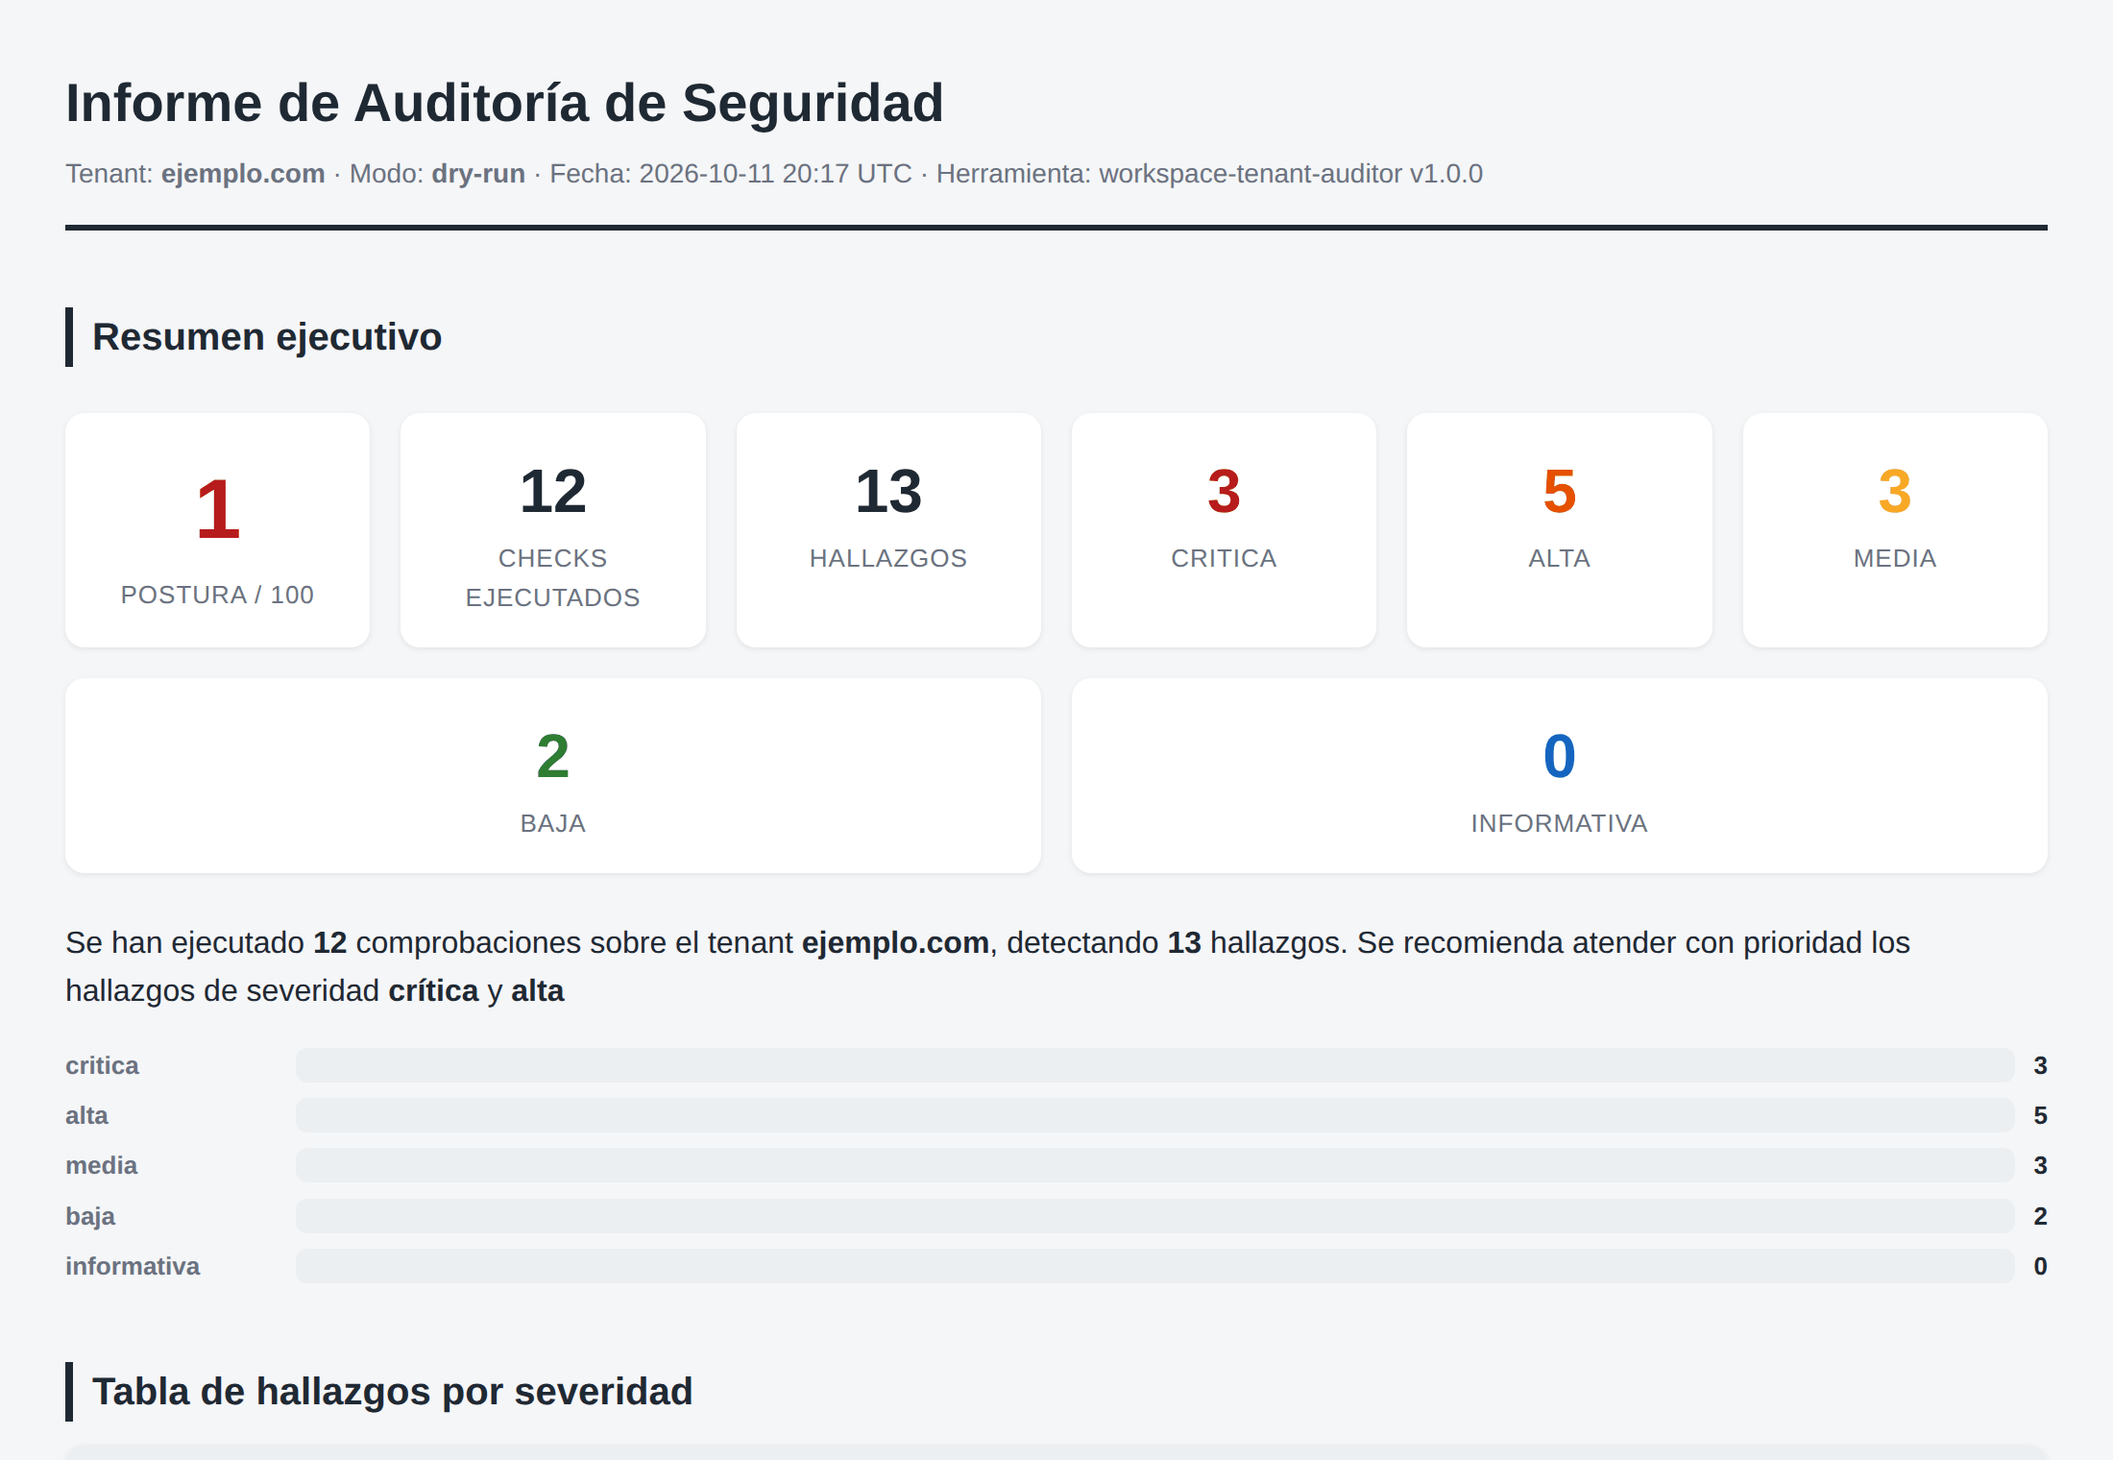
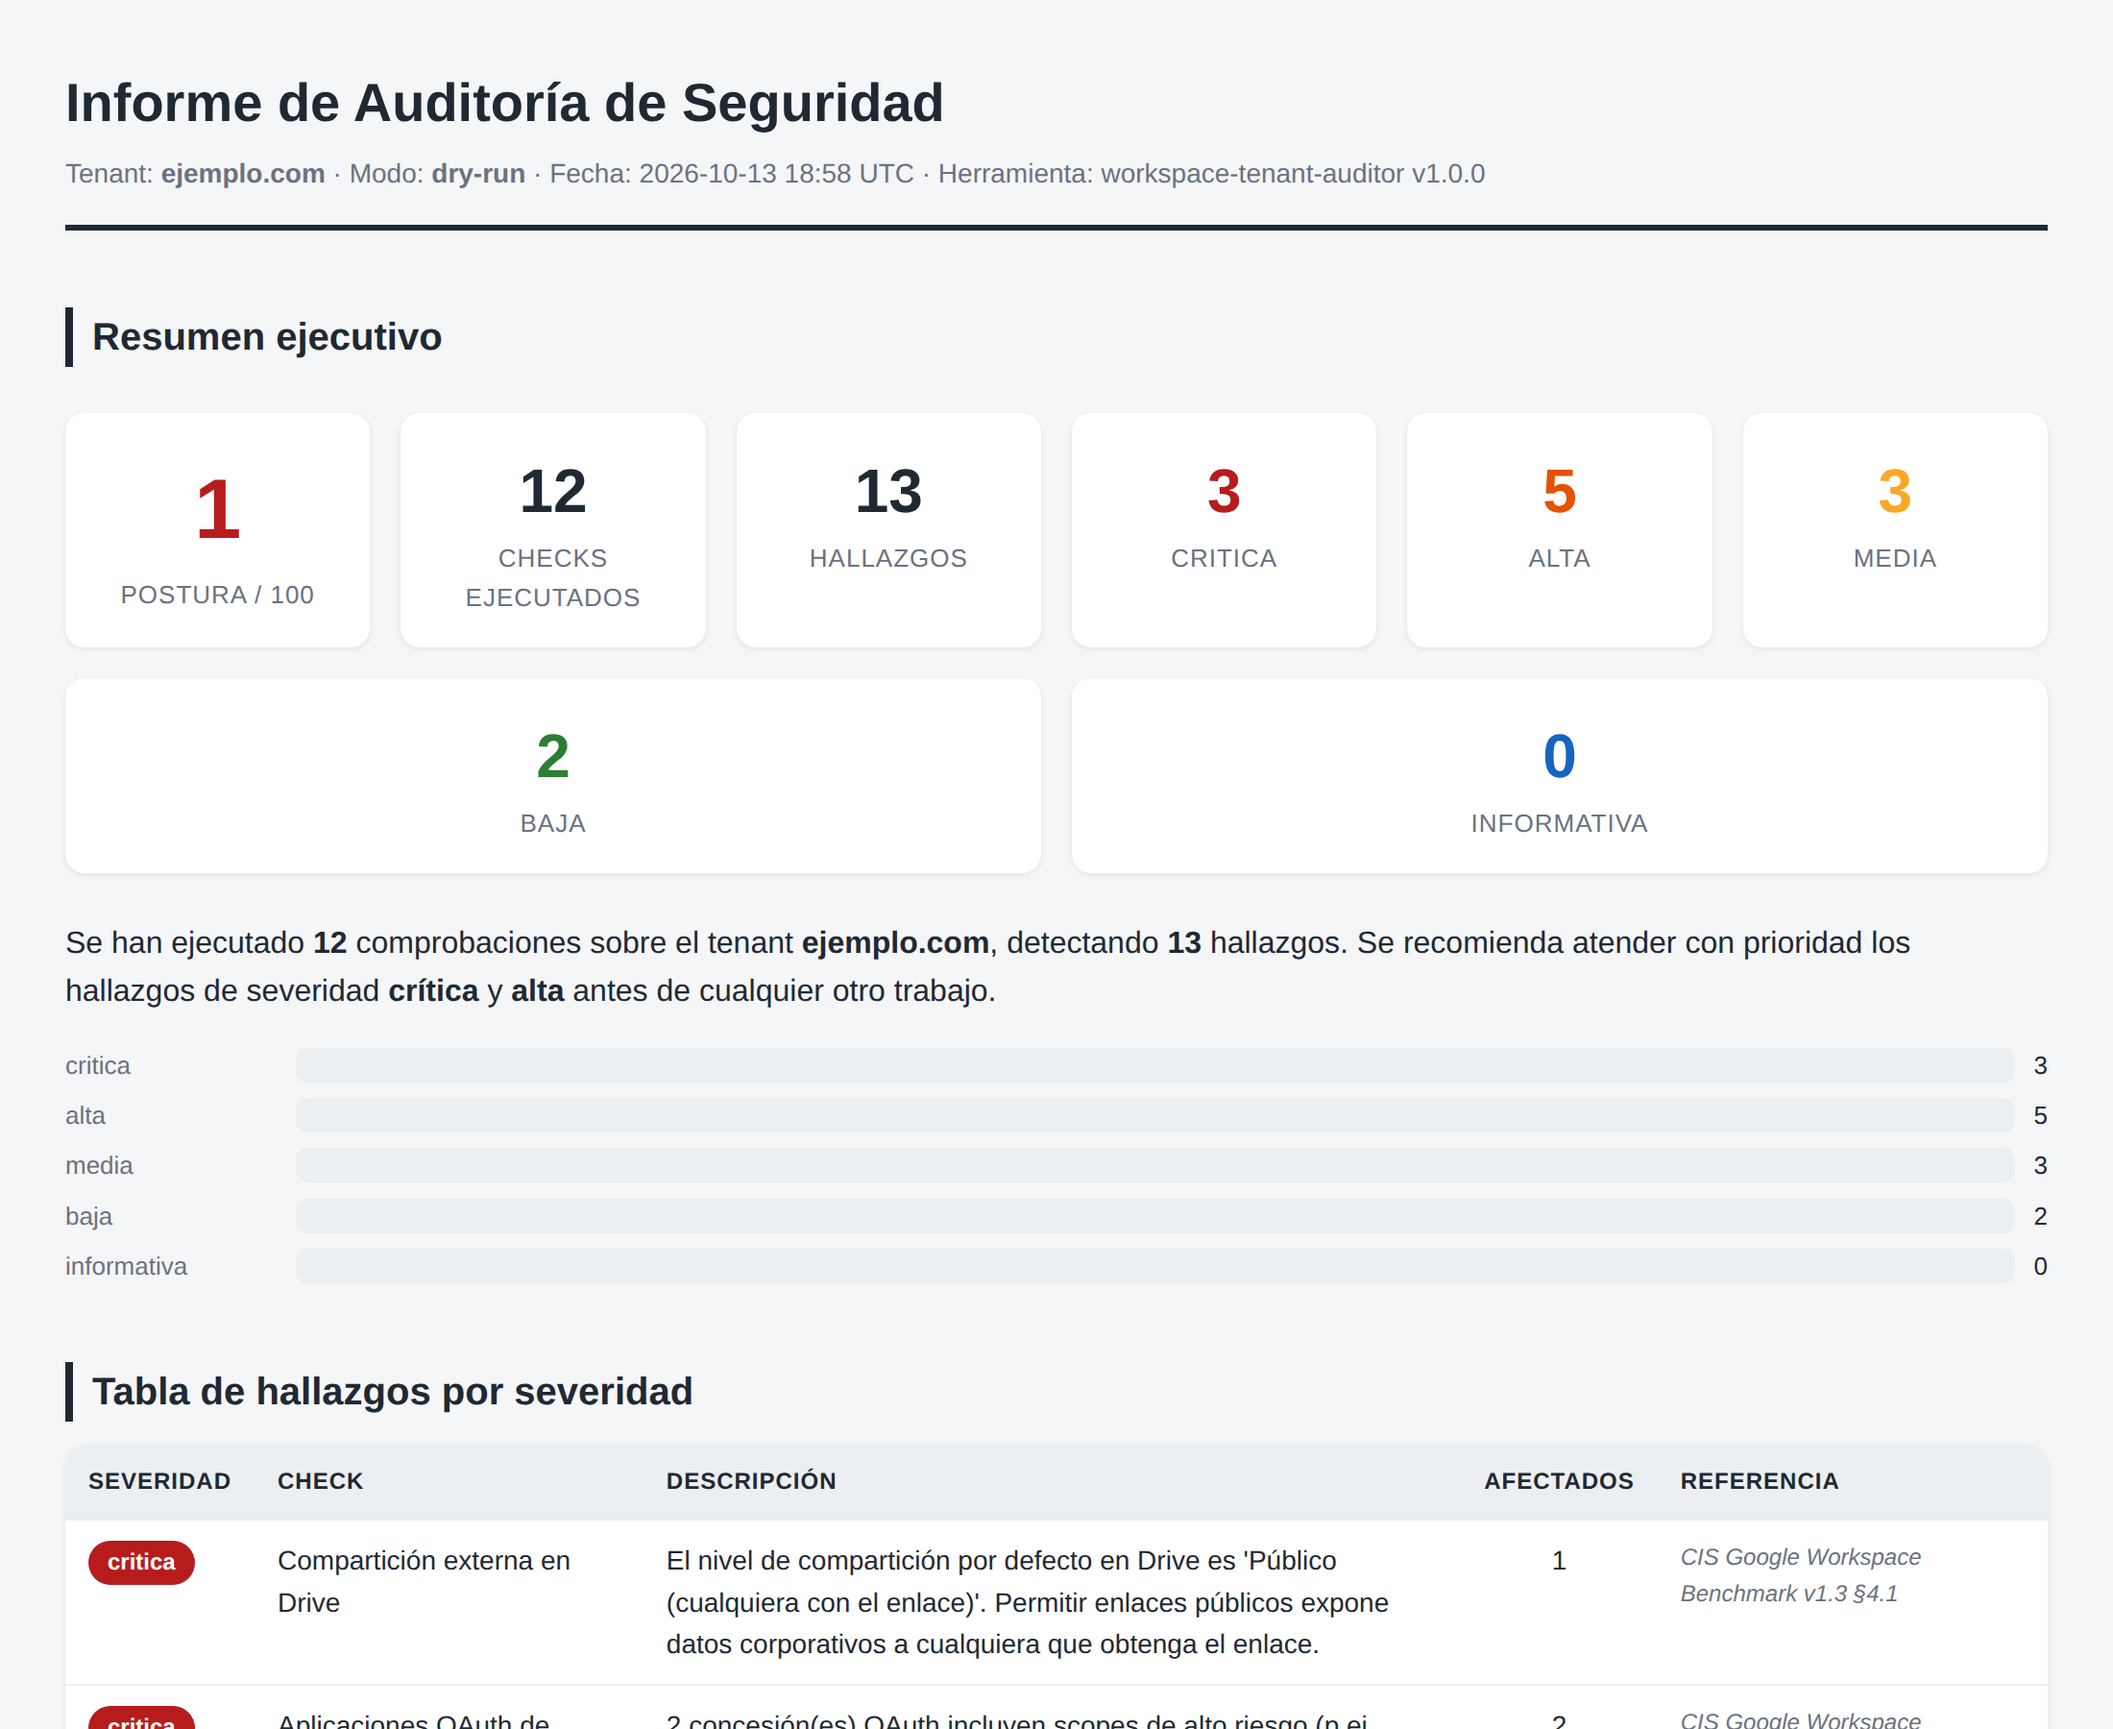
docs: alinear documentación con fixes de paginación, collector y template
- README: roadmap actualizado (tokens OAuth ya implementados vía Admin SDK)
  y enlace al nuevo CHANGELOG.md
- ARCHITECTURE: diagrama corregido (tokens OAuth desde Directory API) y
  sección de recopilación con response_key, aliases y tokens().list()
- SECURITY: nota de alcance de directory.tokens().list() (concesiones
  activas, no catálogo completo de apps)
- CHANGELOG.md: traza de los fixes del commit 9ca98d4
- docs/img: capturas regeneradas con el template HTML corregido

diff --git a/CHANGELOG.md b/CHANGELOG.md
@@ -1,0 +1,42 @@
+# Changelog
+
+Todas las modificaciones relevantes de este proyecto se documentan en este
+archivo. El formato está basado en [Keep a Changelog](https://keepachangelog.com/es/1.1.0/)
+y el proyecto sigue [Versionado Semántico](https://semver.org/lang/es/).
+
+## [No publicado]
+
+### Corregido
+
+- **Paginación rota en la recopilación** (`auth/collector.py`): los endpoints
+  `groups`, `members` y `domains` devolvían listas vacías porque `_paginate()`
+  extraía siempre la clave `users`. Ahora `_paginate()` acepta `response_key`
+  por API y lee la clave correcta de cada respuesta (`users`, `groups`,
+  `members`, `domains`).
+- **Checks de aliases**: se eliminó código muerto (`if False`) y ahora se
+  extraen los **aliases reales** del campo `aliases` de cada usuario
+  (`projection=full`, aplanado a `[{primaryEmail, alias}]`).
+- **Recolección de tokens OAuth**: se sustituyó el uso incorrecto de
+  `reports.userUsageReport()` por la Admin SDK Tokens API
+  (`directory.tokens().list(userKey=...)`), que refleja las concesiones OAuth
+  activas por usuario junto con sus scopes y client IDs.
+- **Template HTML** (`report/templates/report.html.j2`): corregido carácter
+  malformado `</strong›` → `</strong>` y movido el `<canvas>` de Chart.js
+  dentro del layout para que no rompa la estructura del informe.
+
+### Notas
+
+- Verificación: 60/60 tests ✅ · `ruff` limpio ✅ · `tenant-auditor audit --dry-run` ✅.
+
+## [1.0.0] - versión inicial
+
+### Añadido
+
+- Motor de auditoría con 12 checks sobre un tenant de Google Workspace.
+- Autenticación con Service Account + Domain-Wide Delegation (solo lectura).
+- Modo demo (`--dry-run`) sin credenciales.
+- Informes ejecutivos en HTML, PDF (WeasyPrint) y JSON.
+- CLI `tenant-auditor` (Typer), CI con ruff + pytest, imagen Docker.
+
+[No publicado]: https://github.com/arulcancela/workspace-tenant-auditor/compare/86c86d6...HEAD
+[1.0.0]: https://github.com/arulcancela/workspace-tenant-auditor/releases/tag/v1.0.0

diff --git a/ARCHITECTURE.md b/ARCHITECTURE.md
@@ -18,8 +18,8 @@ flowchart TD
     end
 
     subgraph Recopilación
-        CREDS --> DIR[Directory API\nusuarios, grupos, dominios, admins]
-        CREDS --> REP[Reports API\nlogins, tokens OAuth]
+        CREDS --> DIR[Directory API\nusuarios, grupos, dominios, admins, aliases, tokens OAuth]
+        CREDS --> REP[Reports API\nlogins]
         DIR --> COLL[auth/collector.py]
         REP --> COLL
         COLL --> DATA[(TenantData)]
@@ -70,7 +70,17 @@ Service Account (JSON)  ──with_subject(superadmin)──▶  Credenciales co
 - Cada endpoint se envuelve en un helper `_safe(...)`. Si una API falla
   (p. ej. falta un scope), **el error se registra en `TenantData.errors`** y la
   recopilación continúa. Resultado: una auditoría **parcial pero útil**.
-- La paginación se centraliza en `_paginate()` (`nextPageToken`).
+- La paginación se centraliza en `_paginate(request_builder, response_key)`:
+  recorre `nextPageToken` y extrae los resultados de la clave correcta de cada
+  endpoint (`users`, `groups`, `members`, `domains`…), que la Directory API
+  devuelve bajo nombres distintos en cada caso.
+- Los **aliases de usuario** no tienen endpoint global en la Directory API: se
+  extraen del campo `aliases` de cada usuario (`projection=full`) y se aplanan a
+  una lista `[{primaryEmail, alias}]`.
+- Los **tokens OAuth** se leen con la Admin SDK Tokens API
+  (`directory.tokens().list(userKey=...)`), iterando usuario a usuario de forma
+  tolerante a fallos. Registran las **concesiones activas**, no el catálogo
+  completo de apps del tenant.
 - Producción: `TenantData` (contrato neutral, serializable y testeable).
 
 ### 3. Motor de checks (`checks/`)

diff --git a/SECURITY.md b/SECURITY.md
@@ -77,6 +77,13 @@ Rotar y revocar es tan importante como conceder. Si sospechas de una fuga:
   de avisos del informe: no asumas "sin hallazgos" si hubo errores de recogida.
 - La herramienta usa **solo lectura**; cualquier remediación es manual (o vía
   GAM / otra automatización) tras revisar el informe.
+- El check `oauth` se apoya en `directory.tokens().list()`, que expone las
+  **concesiones OAuth activas** (las que algún usuario ha autorizado). **No**
+  enumera apps instaladas por dominio que nadie ha usado todavía, por lo que
+  pueden existir apps sin hallazgo. Complementa con la Consola Admin
+  (Seguridad > Acceso a la API > Controles de aplicaciones) si necesitas el
+  catálogo completo. Esta lectura es la que exige el scope
+  `admin.directory.user.readonly`.
 
 ## Reportar una vulnerabilidad
 

diff --git a/README.md b/README.md
@@ -230,10 +230,14 @@ Detalle completo en **[ARCHITECTURE.md](ARCHITECTURE.md)**.
 ## Roadmap
 
 - [ ] Checks configurables por política externa (fichero YAML).
-- [ ] Integración con el endpoint `tokens` de la Reports API para apps OAuth completas.
+- [ ] Ampliar la recolección de apps OAuth a **todas** las aplicaciones del tenant (hoy se leen las concesiones activas por usuario vía `directory.tokens().list()`, no las apps sin uso).
 - [ ] Comparativa entre ejecuciones (drift detection) y tendencia de postura.
 - [ ] Exportación a CSV y a SARIF (para integrar en pipelines de seguridad).
 - [ ] Notificación por correo/Chat con el informe adjunto tras cada ejecución.
+
+## Changelog
+
+Los cambios relevantes del proyecto se documentan en [CHANGELOG.md](CHANGELOG.md).
 
 ## Licencia
 
